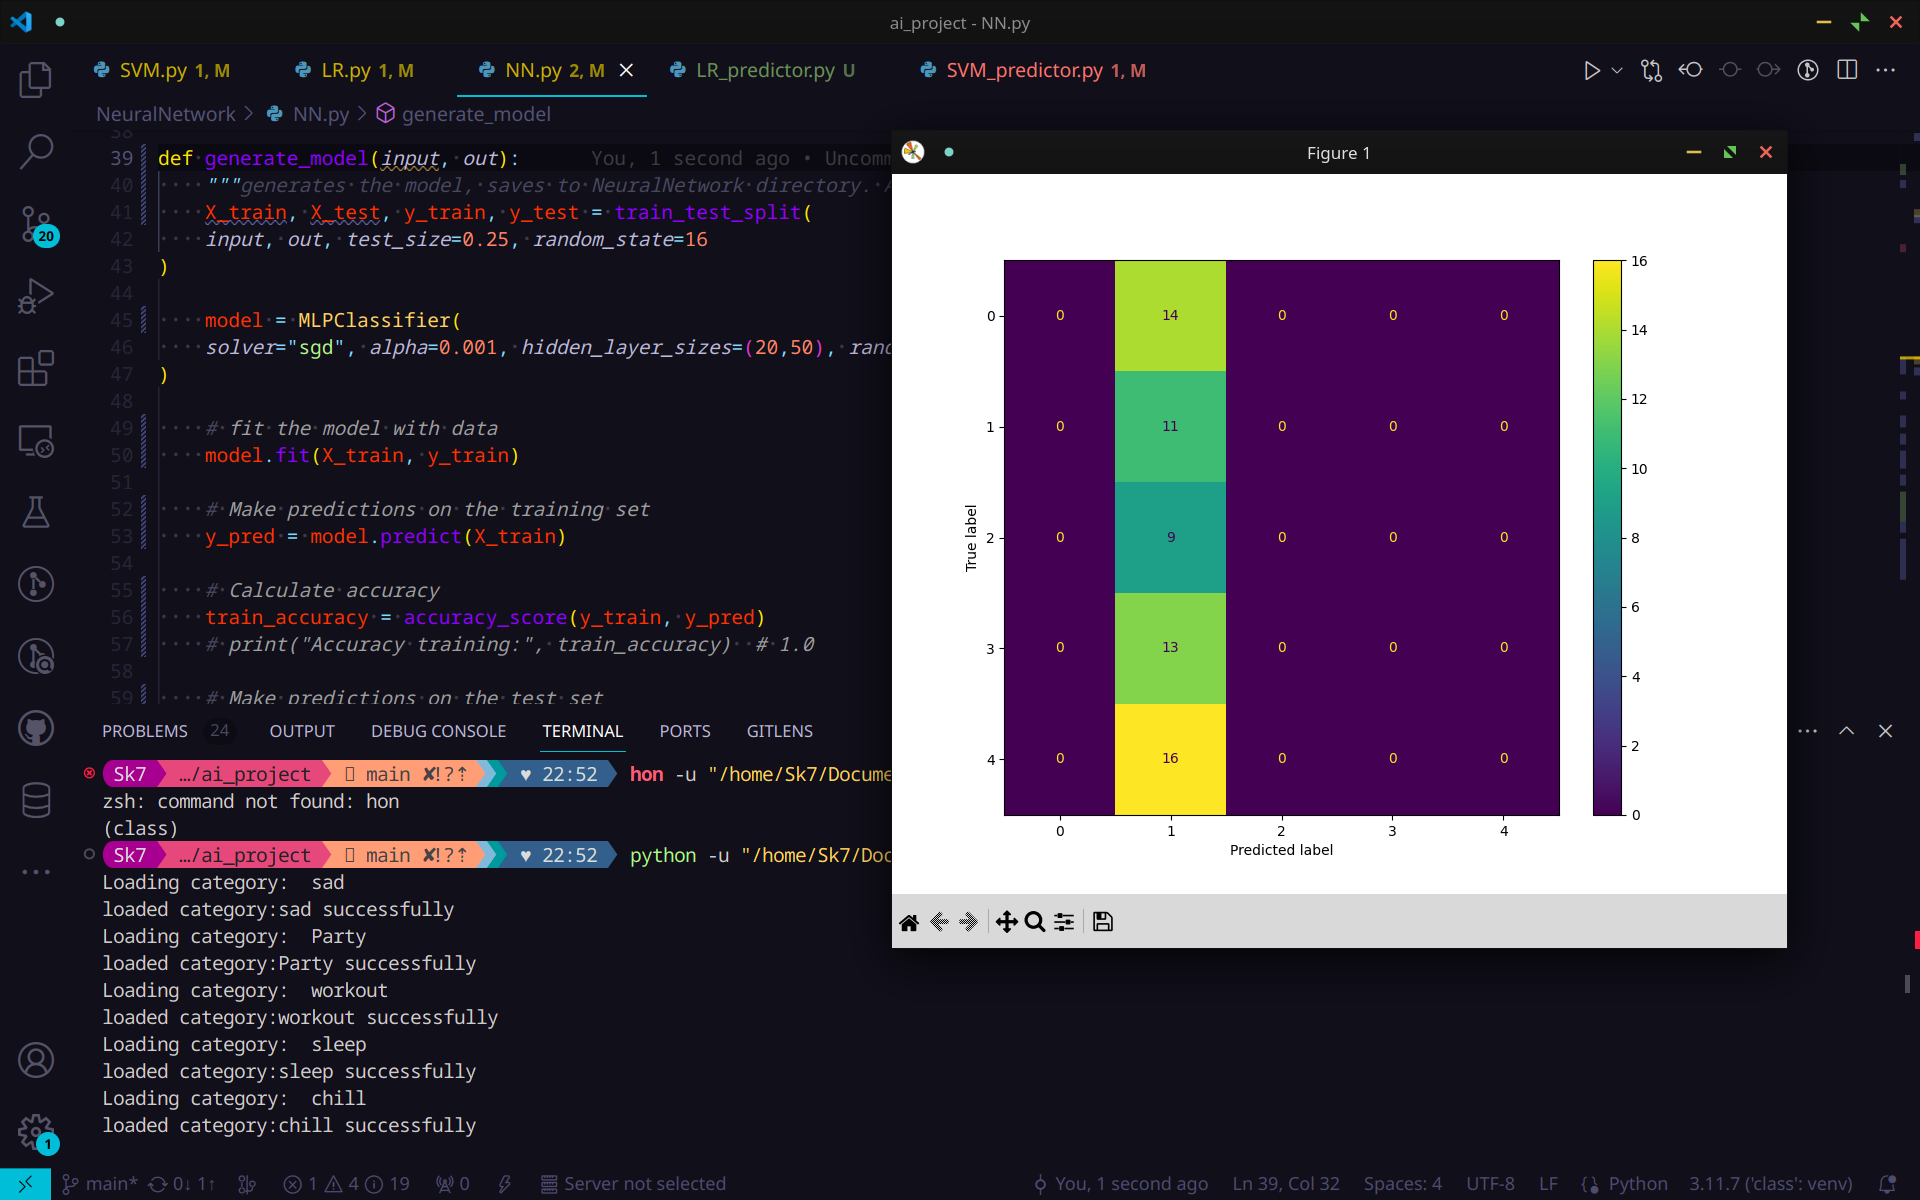
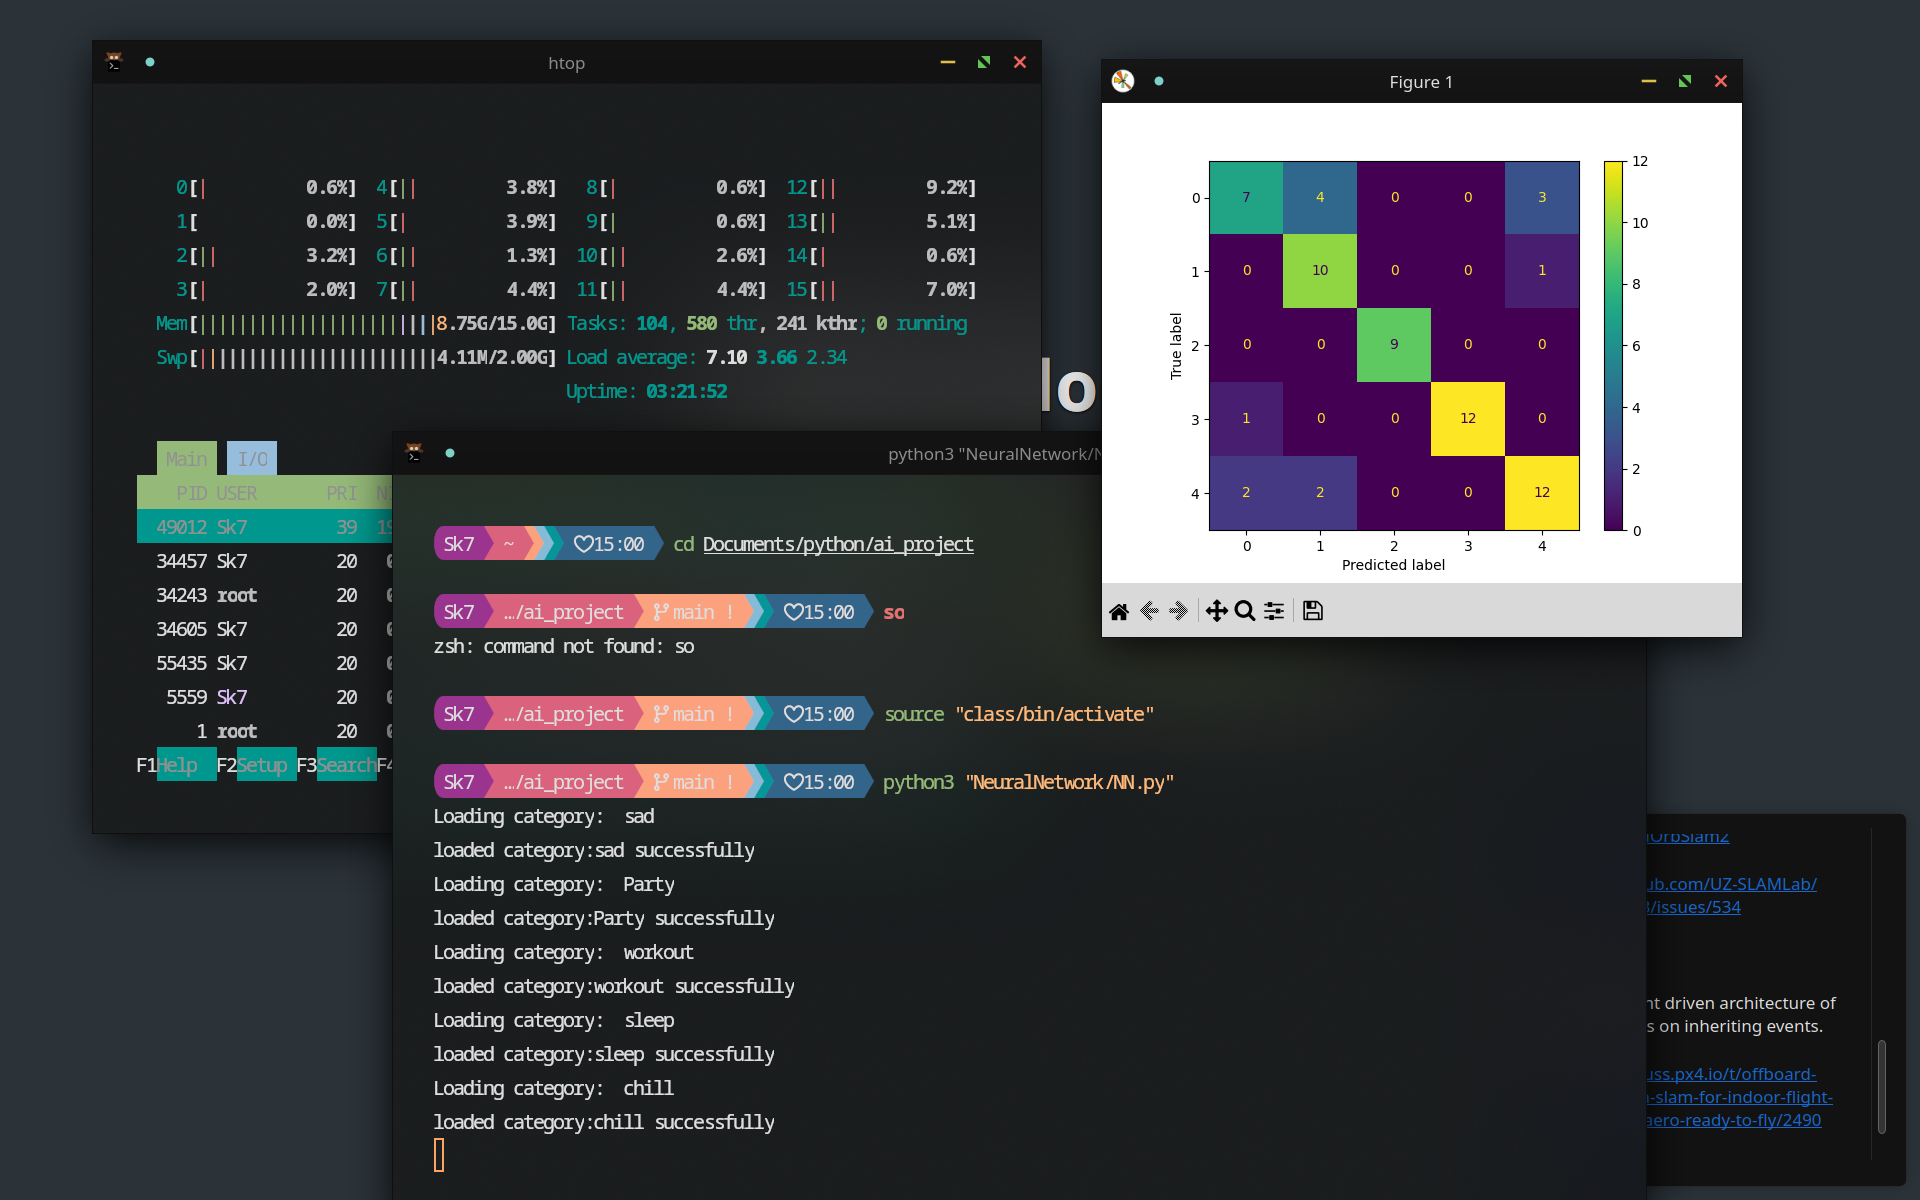
Updated NN confusion matrix after scaling

diff --git a/NeuralNetwork/NN.py b/NeuralNetwork/NN.py
@@ -45,16 +45,16 @@ def generate_model(input, out):
 
     model = MLPClassifier(
     solver="sgd", alpha=0.001, hidden_layer_sizes=(20,50), random_state=42
-)
+    )
 
     # scaling
-    #NOTE I am stupid, should have used it earlier
-    #accuracy jumped from 0.17 to 0.79
+    # NOTE I am stupid, should have used it earlier
+    # accuracy jumped from 0.17 to 0.79
     scaler = StandardScaler()
     scaler.fit(X_train)
     X_train = scaler.transform(X_train)
     X_test = scaler.transform(X_test)
-    #consider using pipeline for scaling
+    # consider using pipeline for scaling
 
     # fit the model with data
     model.fit(X_train, y_train)

diff --git a/README.md b/README.md
@@ -3,3 +3,17 @@ Run in this format:
 <br />decoder.py (optional, for mp3 files)
 <br />visualiser.py -> the output images should be like "out.png" (memory sensitive script)
 Always use a scaler for MLP, it is very very very sensitive to that.
+
+
+Git management:
+Since the models are so large, you'll not be able to upload it do github directly.
+You need to use: https://git-lfs.com/
+
+- first install git-lfs on the system.
+- Now in local repo, run `git lfs install`
+- Since we want to keep the models locally, but add a pointer for cloud repo, we will use
+`git config --local filter.lfs.smudge "git-lfs smudge --skip -- %f"`
+- since our models are in binary files, run: `git lfs track "*.pkl"`
+- Now, stage the git attributes file: `git add .gitattributes`
+- Since this repo was created long before lfs was added, we will use `git lfs migrate` to
+also track previous commits.
